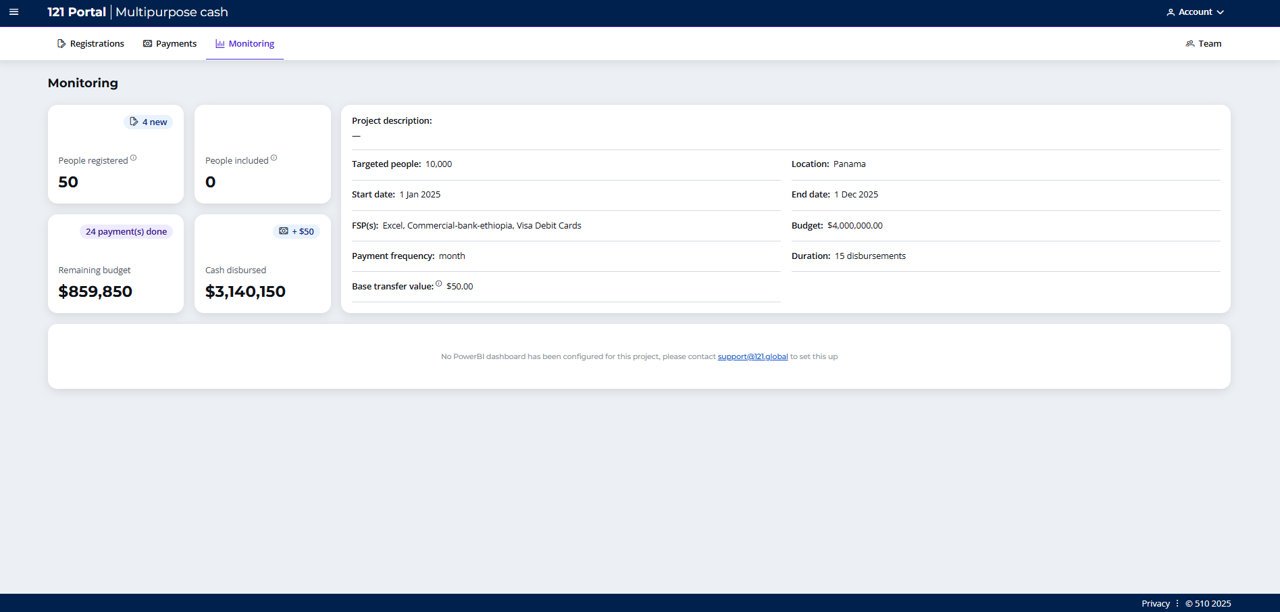
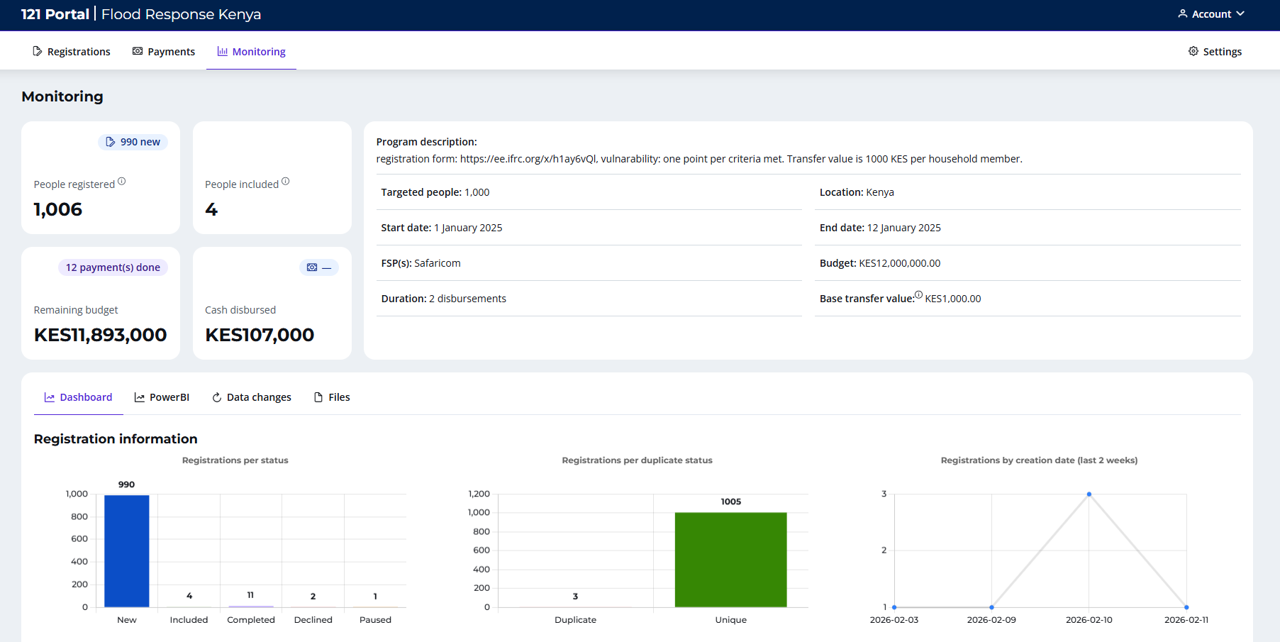
updateinpaymentandmonitoring

diff --git a/docs/monitoring/monitoring.md b/docs/monitoring/monitoring.md
@@ -8,39 +8,40 @@ The Monitoring page is an overview of your project details. This includes the ma
 
 the monitoring page can feature a Power BI dashboard, either the 121 template version or a custom version, if you have requested it to be embedded.
 
-### Monitor your project
+## Monitor your project updates and indicators
 
 - Enter your **project**;
-- Click on **Monitoring** at the top of your screen. You will then be presented with an overview of the project setup and latest updates.
+- Click on **Monitoring** at the top of your screen. You will then be presented with an overview of the project setup and latest updates;
 
 ![Monitoring Page](../assets/img/MonitoringPage.png)
 
----
+The Program metrics translates your program requirements and settings. The details provide the main information about the duration and location of your project, budget, targeted beneficiaries, cash aid delivery and distribution frequencies. Each of your active projects may have different metrics shown in the table below. These can be edited in the **Settings** page.
 
-### Monitoring metrics
-
-The Program metrics in the Monitoring page translates your program requirements. The details provide the main information about the duration and location of your project, budget, targeted beneficiaries, cash aid delivery and distribution frequencies. Each of your active projects may have different metrics shown in the table below.
-
-
-| Type                                 | Description                                                                 |
+| Type | Description |
 | :----------------------------------- | :-------------------------------------------------------------------------- |
-| **Project Description**                     | Title and description of the project. For instance, "Multipurpose Cash" or "Joint-Response" to support health treatment for affected family in remote areas.|
-| **Start and End date**               | Information about the start and the end of your cash program                |
-| **Location**                         | Country or region in which the program takes place.                         |
-| **Financial Service Provider (FSP)** | Number of FSP integrated or registered in your instance and their names                    |
+| **Project Description** | Title and description of the project. For instance, "Multipurpose Cash" or "Joint-Response" to support health treatment for affected family in remote areas. |
+| **Start and End date** | Information about the start and the end of your cash program |
+| **Location** | Country or region in which the program takes place. |
+| **Financial Service Provider (FSP)** | Number of FSP integrated or registered in your instance and their names |
 | **Budget** | Initial budget set to be sent to beneficiaries for this project distribution. |
-| **Payment Frequency**           | Frequency of payment emission (daily, weekly, monthly, quarterly, yearly)   |
-| **Duration**            | Number of payment rounds that will be issued over the program duration      |
-| **Base Transfer Value**                   | The base value set to be transferred per beneficiary.                  |
-| **Cash disbursed**             | Amount that has been disbursed up to this date. This is calculated based on the total number of beneficiaries included in the payment rounds, the base transfer value and the multiplier (if any).                 |
-| **People targeted**                      | Total number of beneficiaries that are targeted by this program             |
+| **Payment Frequency** | Frequency of payment emission (daily, weekly, monthly, quarterly, yearly) |
+| **Duration** | Number of payment rounds that will be issued over the program duration |
+| **Base Transfer Value** | The base value set to be transferred per beneficiary. |
+| **Cash disbursed** | Amount that has been disbursed up to this date. This is calculated based on the total number of beneficiaries included in the payment rounds, the base transfer value and the multiplier (if any). |
+| **People targeted** | Total number of beneficiaries that are targeted by this program |
 | **People included** | Registrations with the status included within this program. |
-| **Remaining budget**              | Remaining budget is the Initial Budget - Cash disbursed.         |
+| **Remaining budget** | Remaining budget is the Initial Budget - Cash disbursed. |
 
 The table is updated automatically.
 
-!!! info "Embed your Powerbi dashboard"
-    The 121 Platform shows a simple Power BI dashboard based on the project details you have set. If you’d like to add your own Power BI dashboard, contact our team to discuss the options.
+---
+
+## At the bottom, you can see 4 tabs: Dashboard, PowerBi, Data changes and Files
+
+- **Dashboard** provides real-time program updates with corresponding baseline indicators. [Read more](./dashboard.md)
+- **PowerBI** show a real-time template dashboard, but a custom-made dashboard can be embedded. [Read more](powerbi.md)
+- **Data Changes** lists the history of all changes made into the programs. [Read more](./data-changes.md)
+- **Files** is used to upload attachements useful to your program. [Read more](./upload-files.md)
 
 ---
 

diff --git a/docs/monitoring/upload-files.md b/docs/monitoring/upload-files.md
@@ -4,7 +4,7 @@ hide:
   - toc
 ---
 
-The **Monitoring page** allows users to upload attachments or files that provide additional information for the project (e.g., payment receipts, project updates, registration changes, proofs).
+The **Monitoring page** allows users to upload attachments or files that provide additional information for the project (e.g. payment receipts, project updates, registration changes, proofs).
 
 !!! Important "Who can perform actions in this page?"
     All users, except View users, can perform this action. Deletion is however restricted to Program Admin, CVA Manager and Finance Manager.  
@@ -12,17 +12,17 @@ The **Monitoring page** allows users to upload attachments or files that provide
 
 ---
 
-### Accessing the File Upload Section
+## Accessing the File Upload Section
 
 - Go to the **Project**.
-- Navigate to the **Monitoring tab**.
+- Navigate to the **Monitoring page**.
 - Select the **Files tab**.
 
 ![Monitoring File tab](../assets/img/MonitoringPageFilestab.png)
 
 ---
 
-### Uploading a File
+## Uploading a File
 
 - On the top right, click **Upload files**.
 - Either **Select a file** from your computer, or **Drag and drop** the file into the upload window.
@@ -42,7 +42,7 @@ To view a file:
 
 ---
 
-### Editing or Changing a File
+## Editing or Changing a File
 
 Replacing an uploaded file is not possible. If a change is required:
 
@@ -59,6 +59,7 @@ Replacing an uploaded file is not possible. If a change is required:
 
 !!! Note "Examples of Useful Uploads"
     This section can be used to attach: Payments receipts, Additional project information, updates or changes to registrations, proof documents, etc.
+    To keep the list easy to read, you can name the files as YEAR_MONTH_BRANCH_CATEGORY_Name. For example, 202602_Akana_Finance_Proof of payment. or 202602_Akana_CVA_Registration list approved.
 
 
 ---

diff --git a/docs/monitoring/powerbi.md b/docs/monitoring/powerbi.md
@@ -1,0 +1,38 @@
+---
+title: Monitoring - PowerBI
+hide:
+  - toc
+---
+
+The **Monitoring page** can feature a Power BI dashboard, either the 121 template version or a custom version, if you have requested it to be embedded.
+
+!!! Important "Who can perform actions in this page?"
+    All users. [Learn more about Users & Roles](../users/users-roles-page.md)
+
+## Accessing the PowerBI section
+
+- Go to the **Project**.
+- Navigate to the **Monitoring page**.
+- Select the **PowerBI tab**.
+
+![Monitoring Page](../assets/img/MonitoringPage.png)
+
+
+## How to view PowerBI Dashboard
+
+A **standard Power BI dashboard template** has been added to all 121 instances per default. This template includes indicators derived from the programs managed within the platform and is based solely on data available in the platform, such as payment frequencies, disbursements, payment status, number of registrations, number of inclusions, duplicates, and similar metrics.
+
+**Custom Power BI dashboards** can also be embedded. To enable this, **please share the Power BI report link** with our team so it can be displayed in your instance. This allows you to access an overview with more detailed insights tailored to your needs—for example, by location, age group, or other criteria.
+
+*The dashboard is refreshed on an hourly basis.*
+
+![PowerBI dashboard](./assets/img/PowerBI.png)
+
+!!! Question "Building Your Own Dashboard"
+    If you would like to create your own dashboard but have limited experience with Power BI, you can schedule a call with our team to discuss your specific requirements and explore available options.
+
+    In most cases, advanced knowledge of Excel and a basic understanding of Power BI are required to develop a custom dashboard.
+
+---
+
+-8<- "docs/_snippets/contact-support.md"

diff --git a/docs/payment/create-approve-payment.md b/docs/payment/create-approve-payment.md
@@ -47,7 +47,7 @@ Once the payment request has been created, it must be approved by an approver.
 - Go to the **payment page**,
 - Click on payment cards with the message **XX of XX approved**
 *In the transaction, you can review the list of beneficiaries included into the payment list, the total amount reserved and the total beneficiaires.*
-- Based on this information, you can either approve or leave the payment. [Approve or Cancel](../assets/img/ApprovePaymentFinal.png)
+- Based on this information, you can either approve or leave the payment. ![Approve or Cancel](../assets/img/ApprovePaymentFinal.png)
 - If you agree, click on **Approve payment** button on the top right of the page. **The payment request status will be updated.**
 - If you disagree, click on **Cancel**. *the payment will remain pending. We recommend getting in touch with the finance users*
 - Once approved by all approvers, the payment request status will change from **Pending approval** to **Approved**
@@ -60,9 +60,9 @@ Once the payment request has been created, it must be approved by an approver.
 Once the payment has been approved by all approvers in the list, the finance manager can **start the payment**.
 
 - Enter the **approved** payment card,
-- Click the **start payment** on the top right, [Start Payment](./img/StartPaymentApproved.png)
-- The payment will start.
-- All payments status will change from **Approved** to **Processing**
+- Click the **start payment** on the top right, ![Start Payment](./img/StartPaymentApproved.png)
+- The payment will start,
+- All payments status will change from **Approved** to **Processing**.
 
 ---
 

diff --git a/docs/monitoring/data-changes.md b/docs/monitoring/data-changes.md
@@ -1,0 +1,44 @@
+---
+title: Monitoring - Data Changes
+hide:
+  - toc
+---
+
+The **Monitoring page** allows users to keep an overview for all data changes done in the whole project (e.g. personal information edited, status changes, payments done, data import, etc.).
+
+!!! Important "Who can perform actions in this page?"
+    All users, except View users, can perform this action. Deletion is however restricted to Program Admin, CVA Manager and Finance Manager.  
+    Additional users may be granted only **View** permission on this page. [Learn more about Users & Roles](../users/users-roles-page.md)
+
+---
+
+## Accessing the Data changes Section
+
+- Go to the **Project**.
+- Navigate to the **Monitoring page**.
+- Select the **Data changes tab**.
+- The table will show a number of information for each record: Field changed, Reg. #, Old value, New value, Changed by, Date and time and Change reason.
+
+![Data changes tab](../assets/img/MonitoringPageFilestab.png)
+
+---
+
+### Monitor Data Changes
+
+In the **Data changes** tab, you can view all modifications made across the entire program and filter items based on the specific information you want to review.
+
+- On the table, you can read all columns names;
+- Columns with the **filter symbol :material-filter:** can be filtered by selecting the value;
+- The other columns can be reorganised by clicking on the column name.
+
+![Upload Files Information](../assets/img/DataChangestab)
+
+**To view further details**:
+
+- Click on the **3 dots menu** at the end of the row,
+- Open a new tab.
+
+
+---
+
+-8<- "docs/_snippets/contact-support.md"

diff --git a/docs/monitoring/dashboard.md b/docs/monitoring/dashboard.md
@@ -1,0 +1,31 @@
+---
+title: Monitoring - Dashboard
+hide:
+  - toc
+---
+
+The **Monitoring page** features a standard dashboard with baseline indicators and gives a first overview on the project progresses.
+
+!!! Important "Who can perform actions in this page?"
+    All users. [Learn more about Users & Roles](../users/users-roles-page.md)
+
+## Accessing the Dashboard section
+
+- Go to the **Project**.
+- Navigate to the **Monitoring page**.
+- Select the **Dashboard tab**.
+
+![Monitoring Page](../assets/img/MonitoringPage.png)
+
+
+## How to view the base Dashboard
+
+A **standard dashboard** displaying baseline indicators linked to the main project metrics—such as number of registrations, status, payments, duplicates, and disbursements—is provided in a clear and simple format to offer an easy-to-read project update. The metrics are different based on the project.
+
+![Dashboard](./assets/img/Dashboard.png)
+
+*The dashboard is refreshed on an hourly basis.*
+
+---
+
+-8<- "docs/_snippets/contact-support.md"
